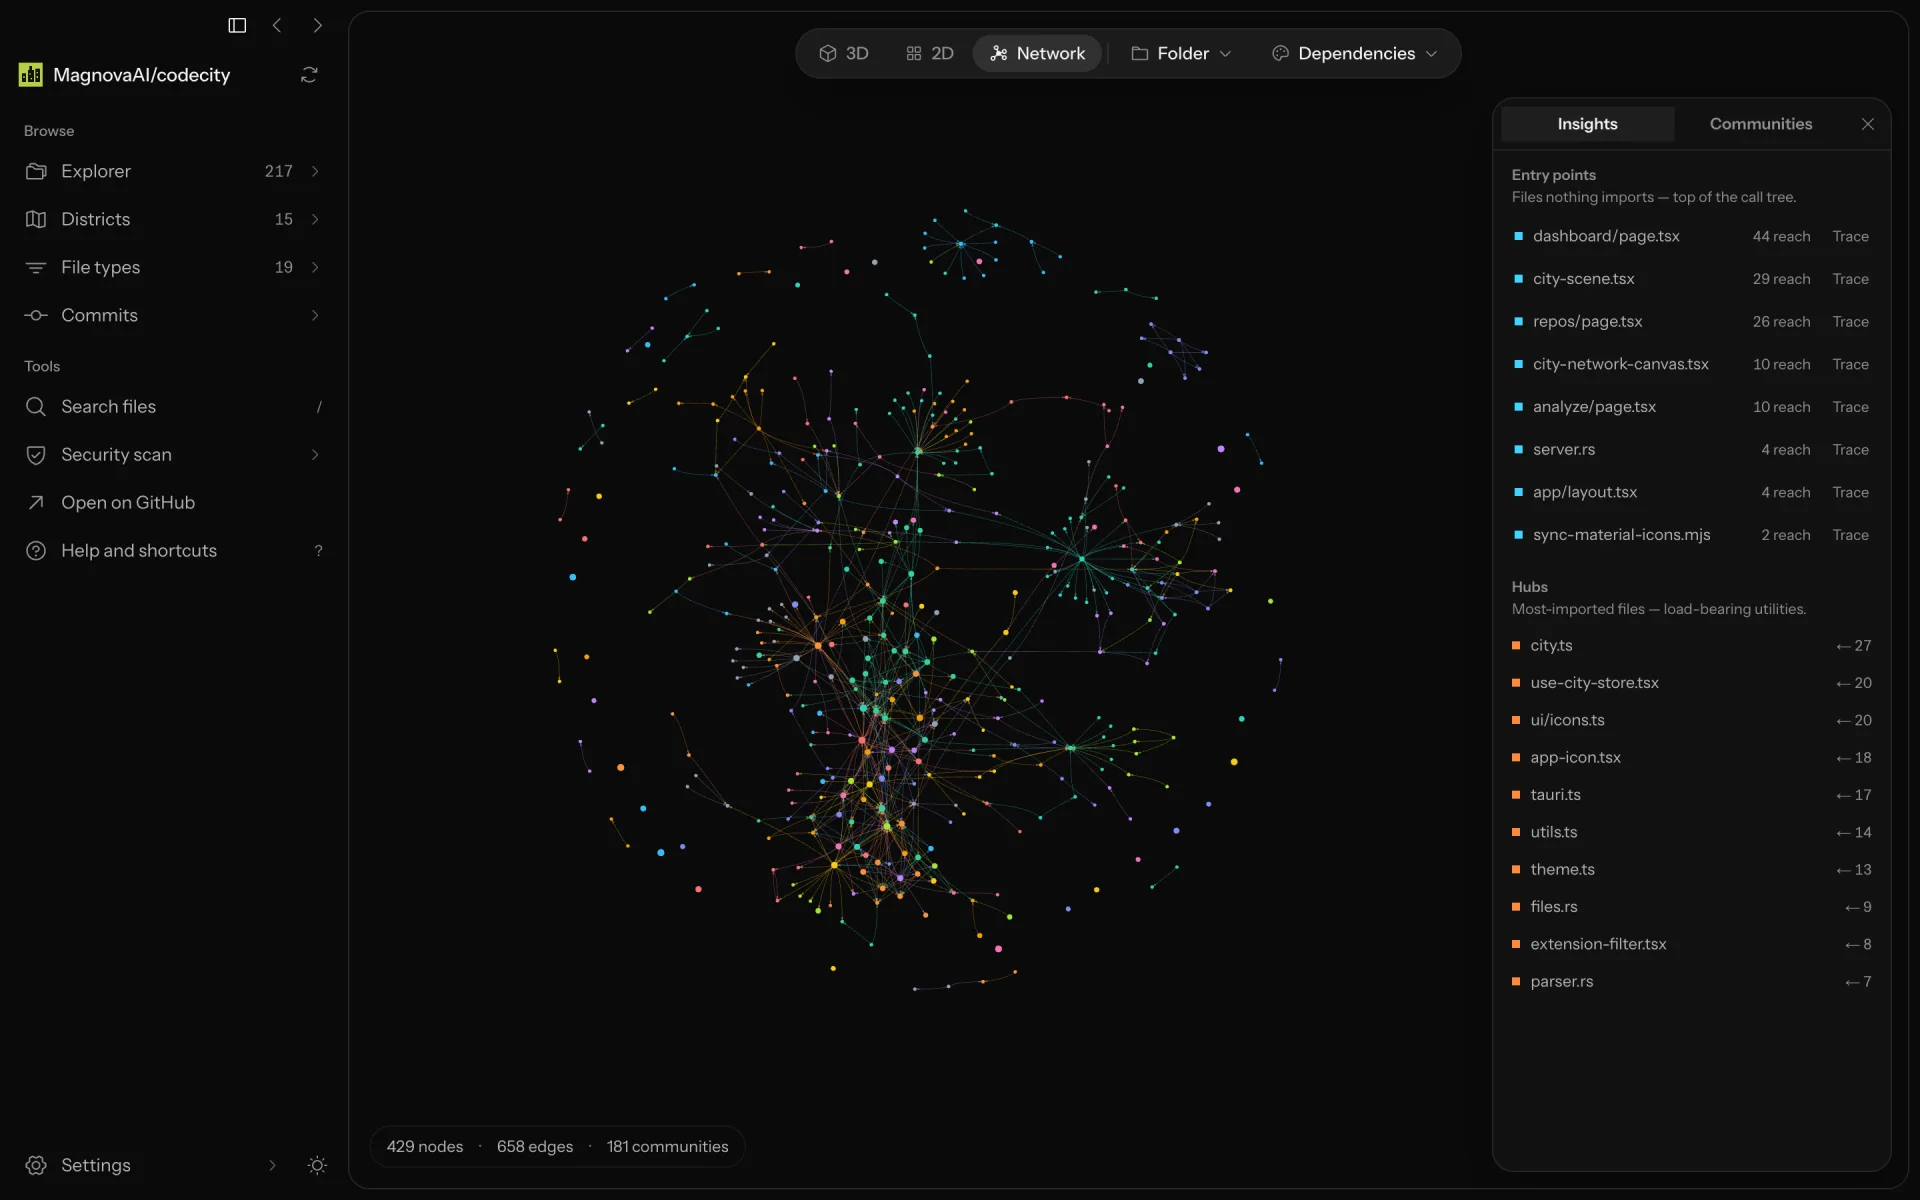
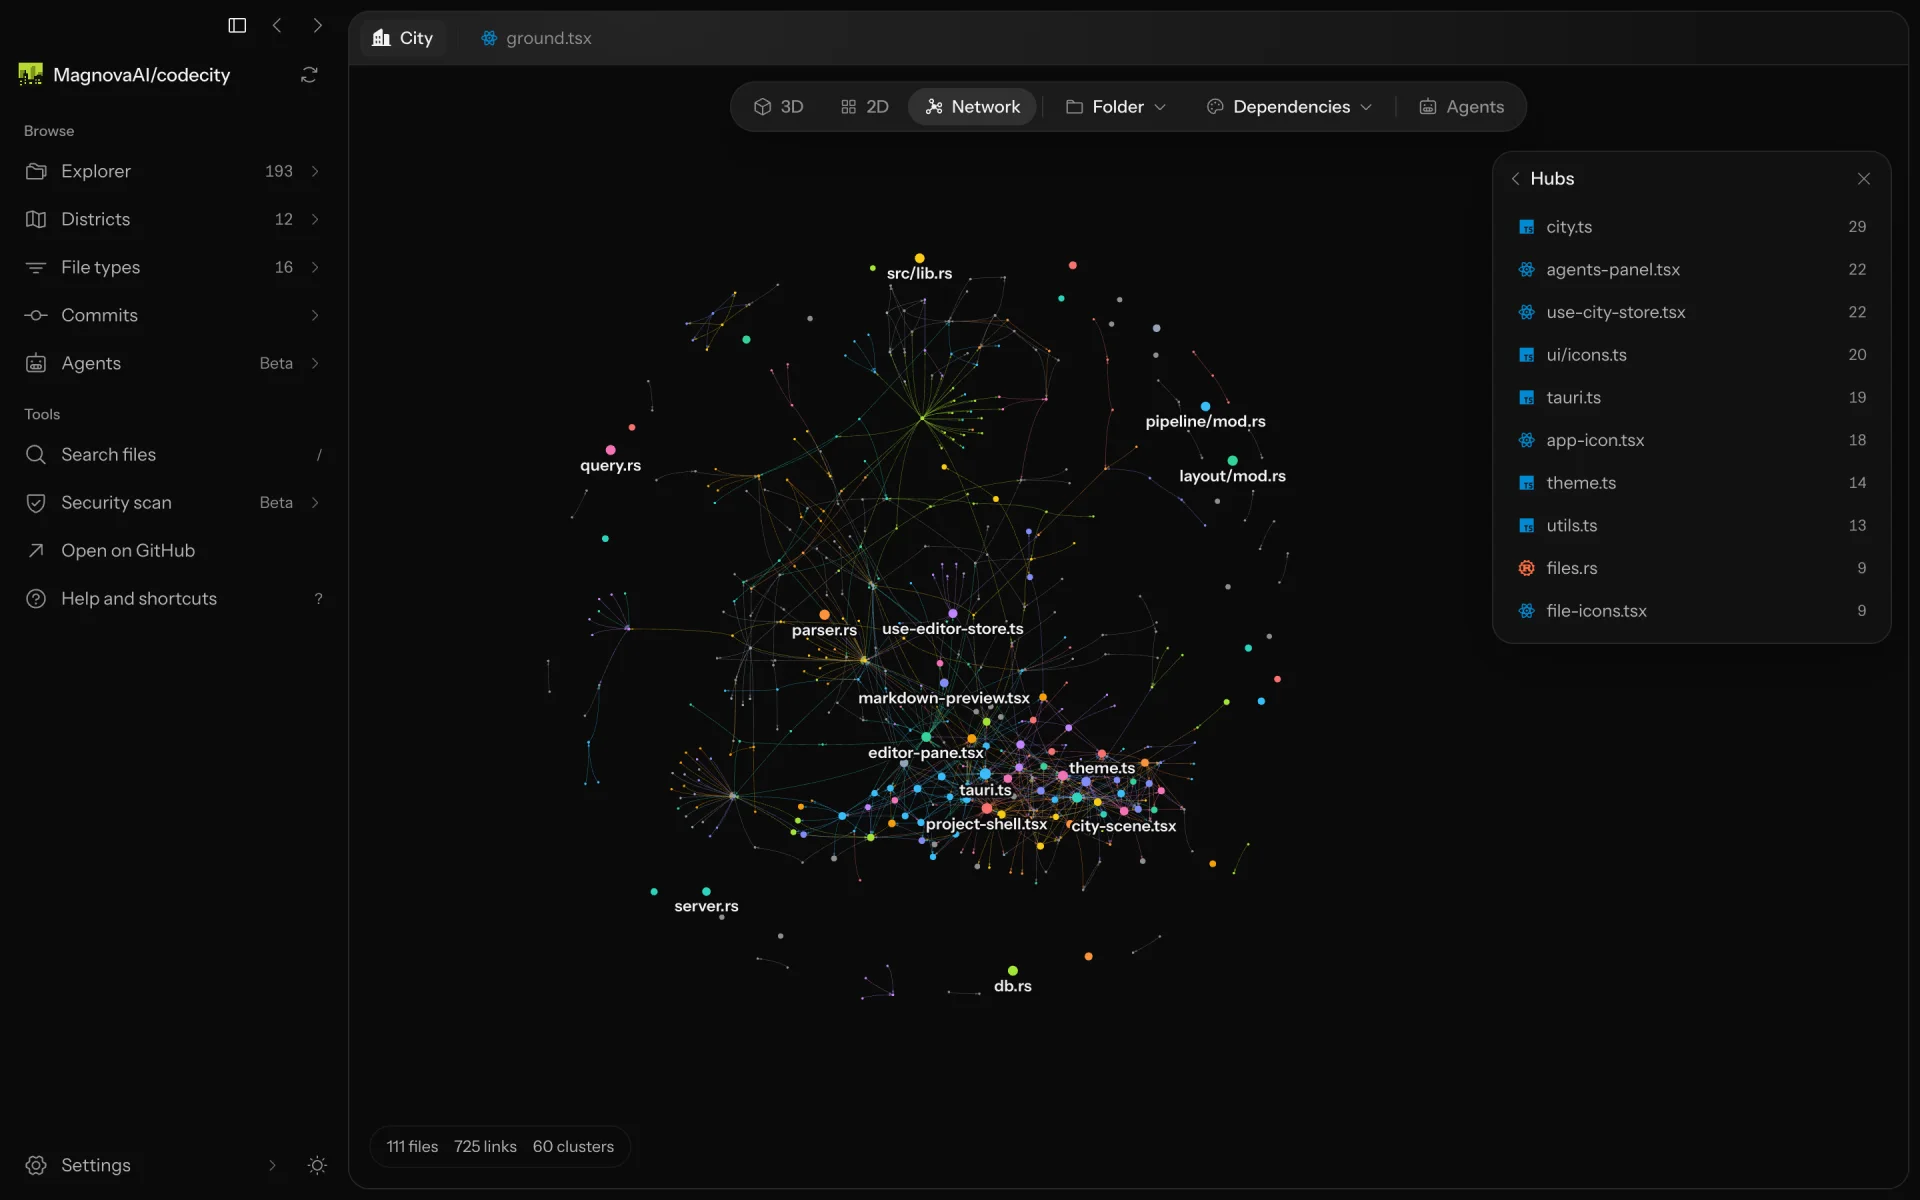
docs: lead the README with the new positioning and screenshots
Adds the file viewer, network and agent mode screenshots, the agent mode and
security scan beta notes, and a link to the feature list.

diff --git a/README.md b/README.md
@@ -1,8 +1,8 @@
 <div align="center">
   <img src="public/brand/app-icon.svg" width="96" height="96" alt="CodeCity logo" />
   <h1>CodeCity</h1>
-  <p><strong>See any codebase as a city you can walk through.</strong></p>
-  <p>Files are buildings, folders are districts, imports are the roads between them.<br />A desktop app, a CLI and an MCP server on one Rust analysis engine.</p>
+  <p><strong>A visual tool for your codebase.</strong></p>
+  <p>See its shape as a 3D city, discover how its files connect, and read any file in the built-in viewer.<br />A desktop app, a CLI and an MCP server on one Rust analysis engine.</p>
 
   <p>
     <a href="LICENSE"><img src="https://img.shields.io/badge/license-MIT-c8e64a.svg" alt="MIT license" /></a>
@@ -23,16 +23,23 @@
 
 ## What it does
 
-- **Reads the city at a glance.** A building's height is its line count and its footprint grows with its functions. Districts are top-level folders, file types or clusters of files that import each other.
-- **Three views of the same code.** A 3D city, a flat 2D map and a network graph of imports, with entry points, hubs and communities.
-- **Colours that answer a question.** Switch between dependencies, complexity, unused exports, file size and type count.
-- **Goes into the file.** Pick a building to see its functions, types, imports and what imports it, then open the source in the built-in editor.
-- **Works on local folders and GitHub repositories.** Sign in with the GitHub device flow to analyze private repositories; the token stays in the OS keychain.
-- **Speaks to agents.** `codecity-mcp` serves the same snapshot to LLM agents over MCP, and `codecity-cli` writes it as JSON.
+- **Shows the shape of the code.** Every file is a building: its height is its line count and its footprint grows with its functions. Folders are districts with streets between them. The same city is also a flat 2D map.
+- **Shows how files connect.** The network view draws every import and call, labels the best connected files, and lists entry points, hubs and clusters. Trace from an entry point to see everything it reaches.
+- **Opens the files.** Pick a building to see its functions, types, imports and what imports it, then read or edit the source in the built-in file viewer.
+- **Answers a question with colour.** Switch between dependencies, complexity, unused exports, file size and type count.
+- **Shows coding agents at work (beta).** Agent mode puts a builder on the file Claude Code or Codex is editing, and lists what each agent edited and which edits are not committed yet. It reads only local session logs and git.
+- **Scans for security findings (beta)** with opengrep.
+- **Works on local folders and GitHub repositories**, and serves the same snapshot to agents over MCP and to scripts as JSON.
 
-| 2D map | Network | Light theme |
+The full list is in [docs/FEATURES.md](docs/FEATURES.md).
+
+| File viewer | Network |
+| --- | --- |
+| ![The built-in file viewer beside the file tree and file panel](docs/assets/file-viewer.webp) | ![The network view with hubs labelled and listed](docs/assets/view-network.webp) |
+
+| Agent mode | 2D map | Light theme |
 | --- | --- | --- |
-| ![The 2D map view](docs/assets/view-2d.webp) | ![The network view](docs/assets/view-network.webp) | ![The 3D city in the light theme](docs/assets/city-3d-light.webp) |
+| ![Agent mode: a builder on the file Claude is editing](docs/assets/agent-mode.webp) | ![The 2D map view](docs/assets/view-2d.webp) | ![The 3D city in the light theme](docs/assets/city-3d-light.webp) |
 
 ## Quick start
 
@@ -234,7 +241,7 @@ More in the docs:
 - [Development](docs/DEVELOPMENT.md): build commands, adding a language or an RPC command
 - [Architecture](docs/ARCHITECTURE.md): how the crates and the frontend fit together
 - [Configuration](docs/CONFIGURATION.md) and [testing](docs/TESTING.md)
-- [Roadmap](docs/ROADMAP.md)
+- [Features](docs/FEATURES.md) and [roadmap](docs/ROADMAP.md)
 
 ## Built with
 
